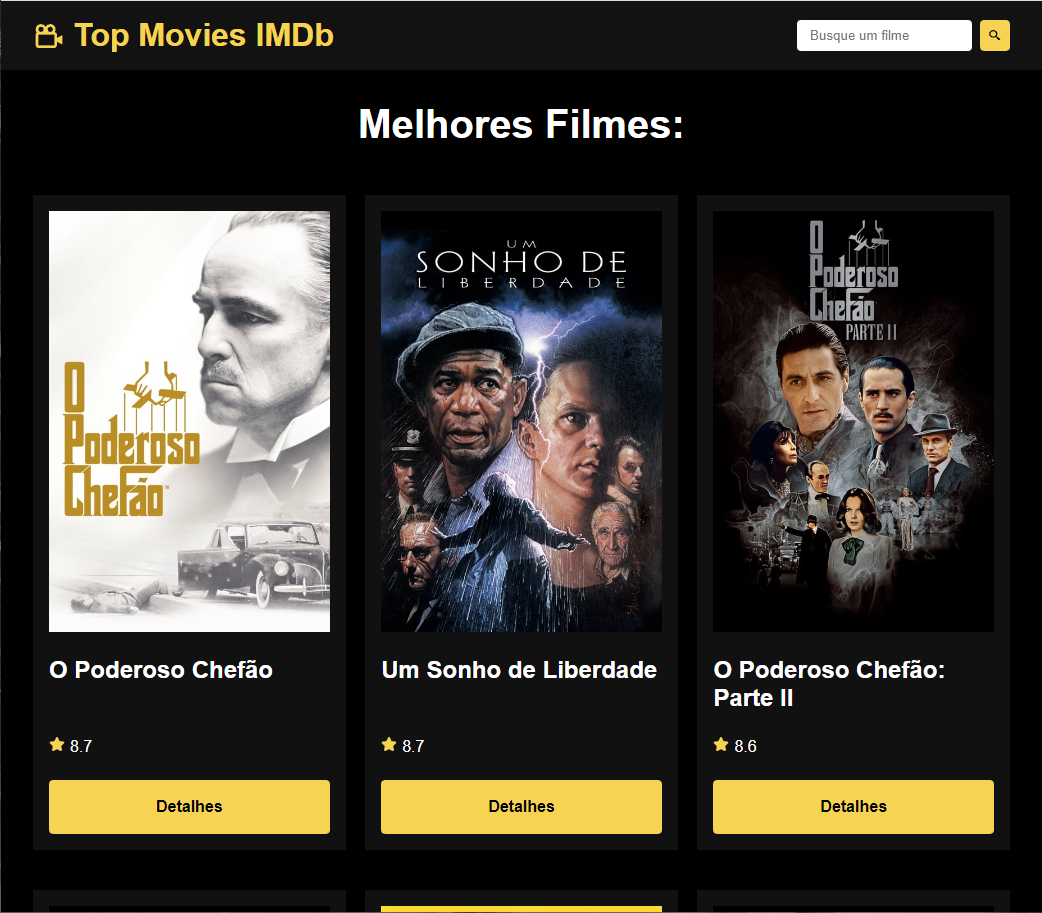
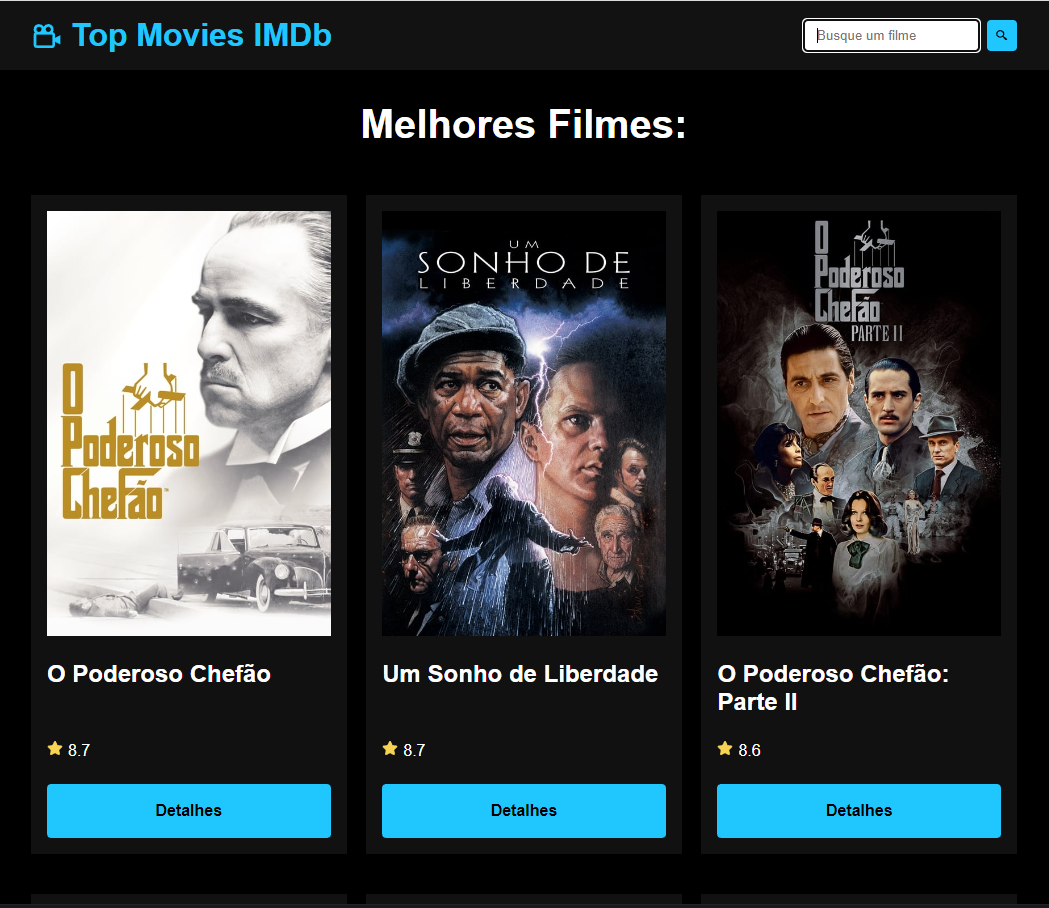
React finalizado

diff --git a/src/pages/MovieGrid.css b/src/pages/MovieGrid.css
@@ -5,7 +5,7 @@
     margin: 2rem 0 1rem;
 }
 .title .query_text{
-    color: #f7d354;
+    color: #1fc7fe;
 }
 .movies_container{
     display: flex;
@@ -40,8 +40,8 @@
     margin-right: 5px;
 }
 .movies_container div a{
-    background-color: #f7d354;
-    border: 2px solid #f7d354;
+    background-color: #1fc7fe;
+    border: 2px solid #1fc7fe;
     border-radius: 4px;
     color: black;
     padding: 1rem .5rem;
@@ -53,5 +53,5 @@
 }
 .movies_container div a:hover{
     background-color: transparent;
-    color: #f7d354;
+    color: #1fc7fe;
 }

diff --git a/src/components/NavBar.css b/src/components/NavBar.css
@@ -21,8 +21,8 @@
     border: none;
 }
 #navbar form button{
-    background-color: #f7d354;
-    border: 2px solid #f7d354;
+    background-color: #1fc7fe;
+    border: 2px solid #1fc7fe;
     border-radius: 4px;
     color: black;
     padding: .4rem;
@@ -33,5 +33,5 @@
 }
 #navbar form button:hover{
     background-color: transparent;
-    color: #f7d354;
+    color: #1fc7fe;
 }

diff --git a/src/components/MovieCard.jsx b/src/components/MovieCard.jsx
@@ -9,7 +9,7 @@ const MovieCard = ({movie, showLink = true}) => {
         <img src={imageUrl + movie.poster_path} alt={movie.title} />
         <h2>{movie.title}</h2>
         <p>
-            <FaStar/>{movie.vote_average}
+            <FaStar color='#f7d354'/>{movie.vote_average}
         </p>
         {showLink && <Link to={`/movie/${movie.id}`}>Detalhes</Link>}
     </div>

diff --git a/src/index.css b/src/index.css
@@ -10,8 +10,8 @@ body{
 }
 a{
     text-decoration: none;
-    color: #f7d354;
+    color: #1fc7fe;
 }
 a:hover{
-    color: #b8930c;
+    color: #0b4a5f;
 }

diff --git a/src/pages/Movie.css b/src/pages/Movie.css
@@ -7,7 +7,7 @@
 }
 .movie_page svg{
     font-size: 1.5rem;
-    color: #f7d354;
+    color: #1fc7fe;
 }
 .movie_page .movie_card{
     text-align: center;
